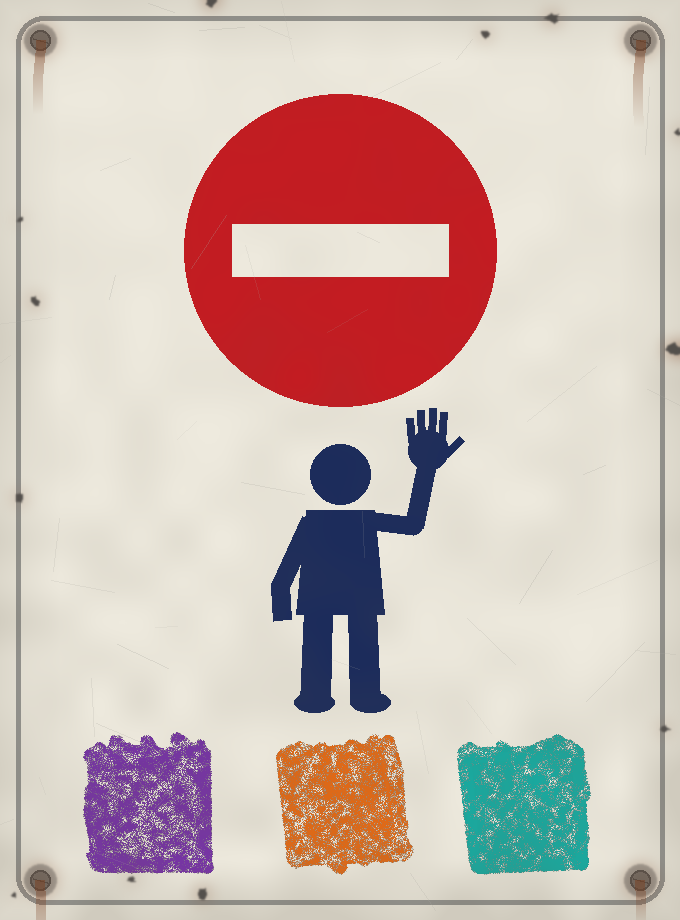
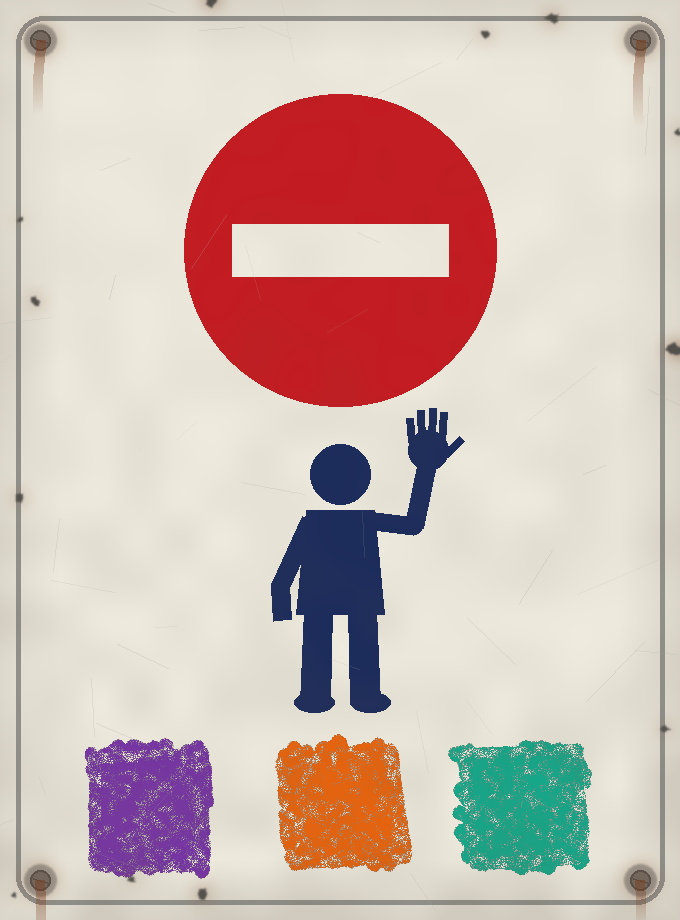
Cartello delle pozze coi colori delle pozze (collaudo del 1 novembre): faretto bianco neutro, forte (5) e stretto (15°), a 1,2 m dal muro perché la luce arrivi di fronte e non di taglio; smalto opaco (roughness 0,7); quadratini a pastello più fitti (meno bianco fra i tratti), turchese più verde e ar
Claude-Session: https://claude.ai/code/session_01T7gXU9URJunXdQxrRAzoeN

Changed region(s): [[0.6485, 0.7913, 0.8647, 0.9739], [0.4015, 0.7913, 0.6176, 0.9739], [0.1235, 0.7913, 0.3397, 0.9739]]

diff --git a/assets_src/pozze_colorate/cartello.py b/assets_src/pozze_colorate/cartello.py
@@ -26,10 +26,13 @@ MM = 0.5                       # millimetri per pixel
 W, H = int(340 / MM), int(460 / MM)
 SEME = 31
 
-# i pastelli dei tre colori giusti (le pozze: WaterMix.TURCHESE, VIOLA, ARANCIONE), cera un po' spenta
-TURCHESE = (24, 172, 162)
+# i pastelli dei tre colori giusti (le pozze: WaterMix.TURCHESE, VIOLA, ARANCIONE). Tarati nel gioco (collaudo del
+# 1 novembre, tests/collaudo/colori_cartello_pozze.gd): col faretto bianco e la luce della stanza, la tinta sullo schermo
+# viene come quella delle pozze (viola ~250°, arancione ~20°, turchese ~187°); la luce fredda della stanza sposta le
+# tinte verso il blu, per questo il turchese della cera è più verde di quello delle pozze
+TURCHESE = (20, 170, 140)
 VIOLA = (120, 52, 168)
-ARANCIONE = (232, 108, 22)
+ARANCIONE = (236, 100, 12)
 
 SMALTO = np.array([238, 234, 222], np.float32)
 ROSSO = (196, 28, 34)
@@ -101,7 +104,8 @@ def quadratini():
         rr = lato / math.sqrt(2)
         poli = [(cx + rr * (1 + rng.normal(0, 0.05)) * math.cos(t), cy + rr * (1 + rng.normal(0, 0.05)) * math.sin(t))
                 for t in ang]
-        p.riempi(poli, c, larg_mm=7.0, passo_mm=4.2, pressione=245)
+        # premuto forte e fitto (poco bianco fra i tratti, se no da lontano il colore si spegne), la grana resta
+        p.riempi(poli, c, larg_mm=7.5, passo_mm=3.0, pressione=250, variazione=0.04)
         p.tratto(poli + [poli[0], poli[1]], c, larg_mm=6.0, volte=2, trem=0.8, pressione=250)
     return p.finisci(bagnato=0.15, sbiadito=0.0)
 

diff --git a/assets_src/scarabocchi/pastello.py b/assets_src/scarabocchi/pastello.py
@@ -48,8 +48,9 @@ class Pastello:
         self.livelli.append((colore, im))
         return im
 
-    def tratto(self, pts, colore, larg_mm=17.0, volte=2, trem=1.0, pressione=235):
-        """Un segno di pastello lungo [pts] (in pixel), largo [larg_mm], ripassato [volte] volte un po' spostato."""
+    def tratto(self, pts, colore, larg_mm=17.0, volte=2, trem=1.0, pressione=235, variazione=0.25):
+        """Un segno di pastello lungo [pts] (in pixel), largo [larg_mm], ripassato [volte] volte un po' spostato.
+        Ogni passata preme fra (1 - [variazione]) e 1 volte [pressione] (meno si preme, più grana del muro resta)."""
         im = self._livello(colore)
         d = ImageDraw.Draw(im)
         k = self.k
@@ -57,7 +58,7 @@ class Pastello:
         for v in range(volte):
             sp = self.rng.normal(0, lw * 0.18, 2)
             pp = [(x * k + sp[0] + self.rng.normal(0, trem * k), y * k + sp[1] + self.rng.normal(0, trem * k)) for x, y in pts]
-            p = int(pressione * (0.75 + 0.25 * self.rng.random()))
+            p = int(pressione * (1.0 - variazione + variazione * self.rng.random()))
             for i in range(len(pp) - 1):
                 # lo spessore cambia un po' lungo il tratto (la mano preme e alleggerisce)
                 l = max(2, int(lw * (0.8 + 0.35 * self.rng.random())))
